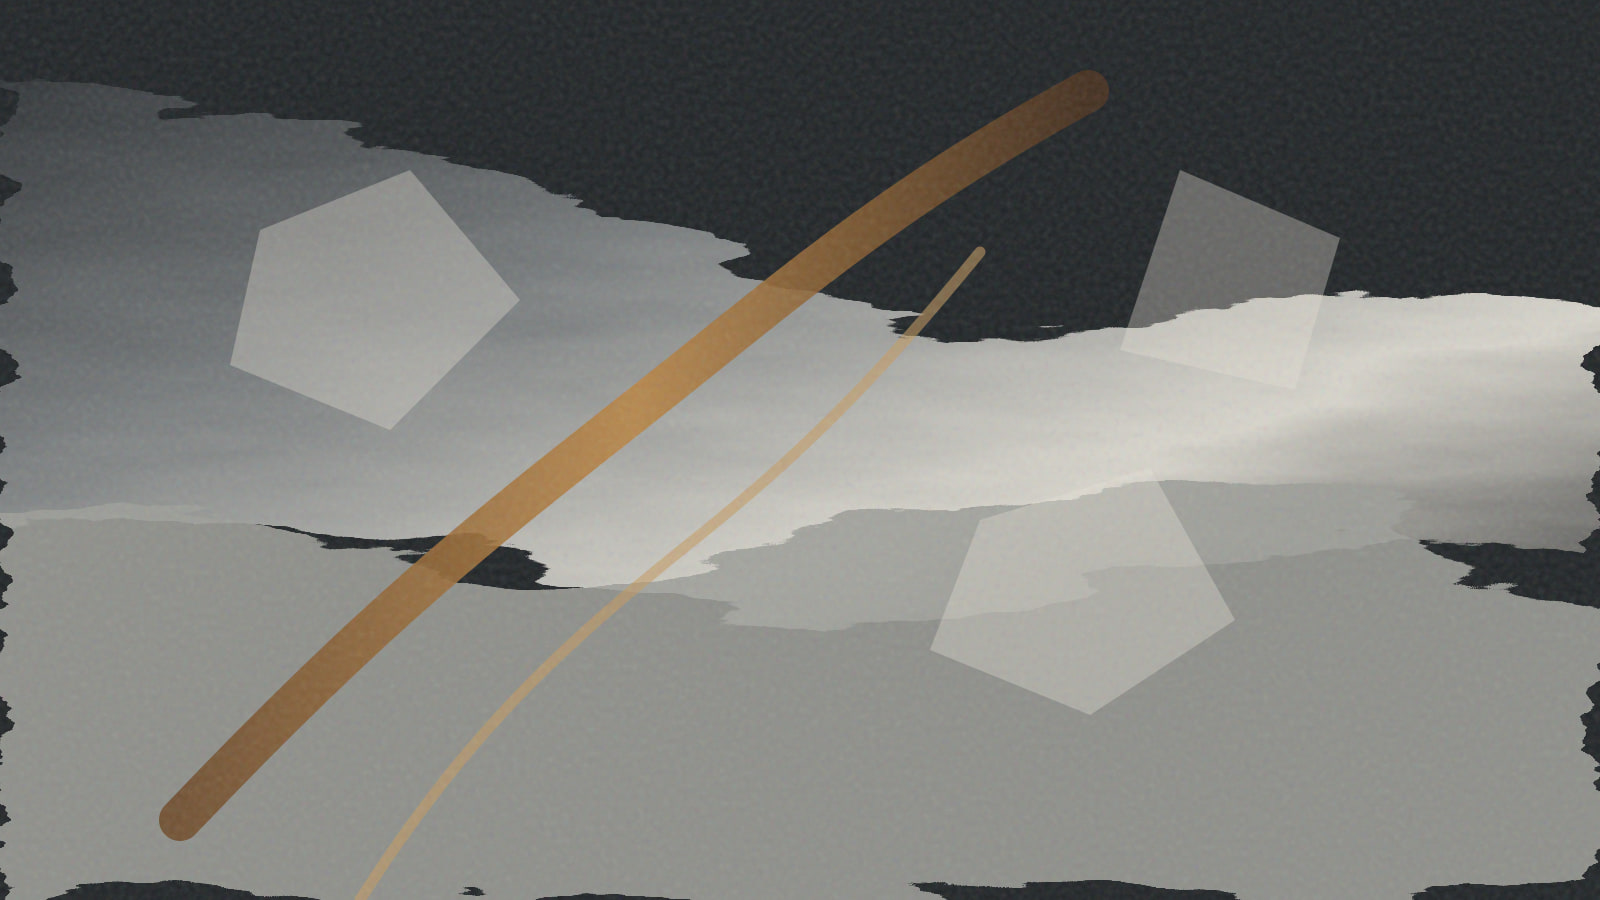
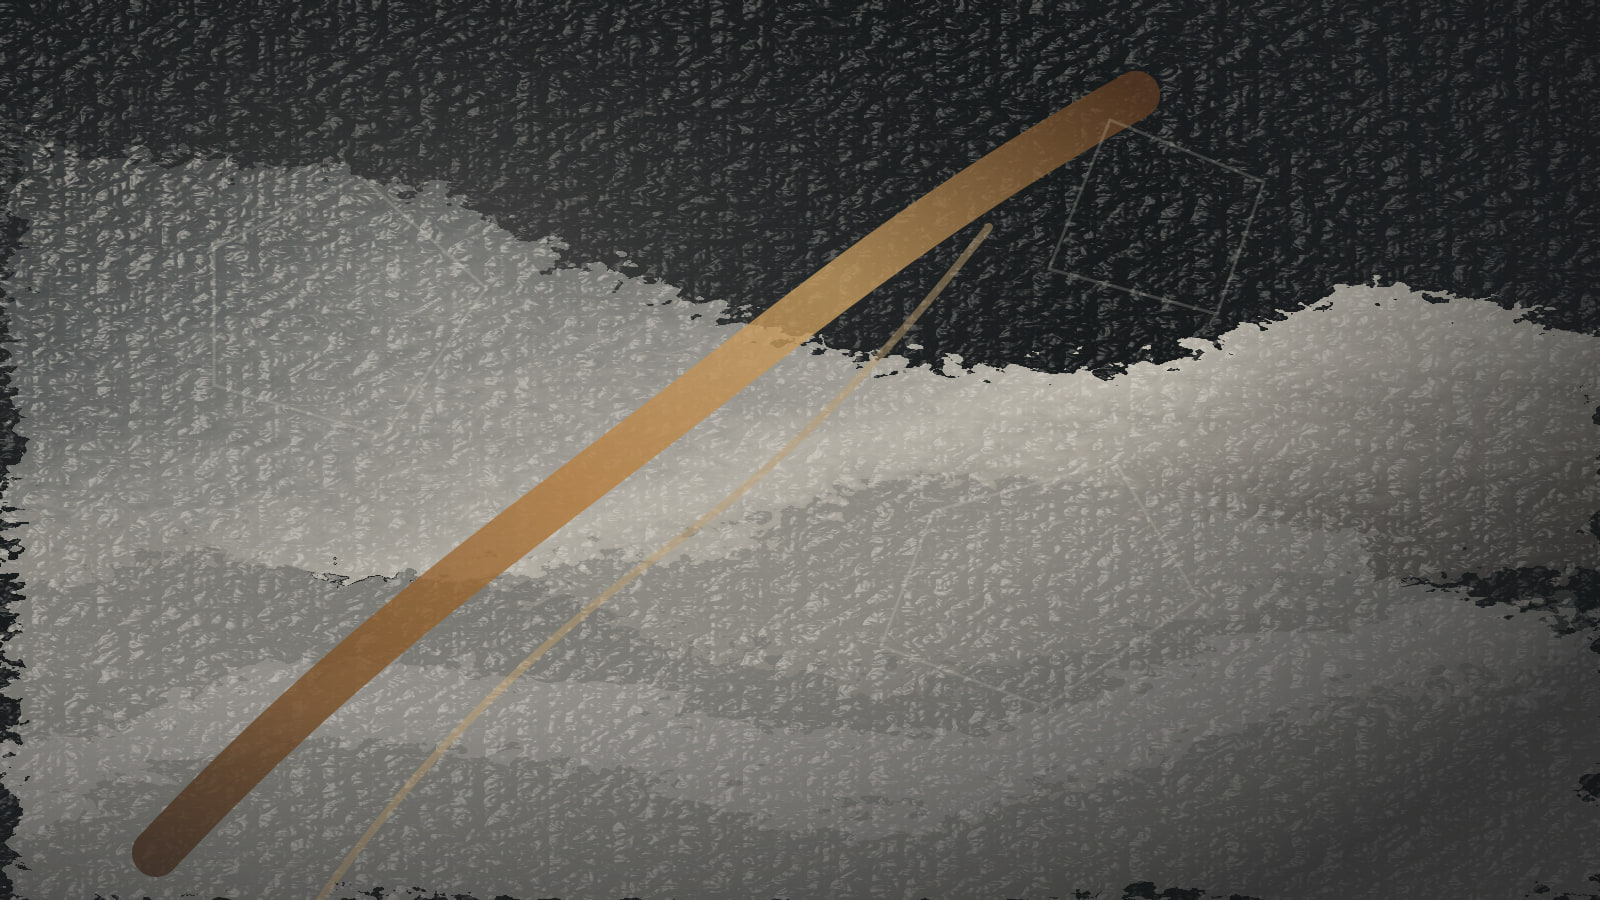
gate5(editorial-v1): gen-2 interpretive rasters -> OMNI APPROVED
ChatGPT upgraded the 3 interpretive SVG sources (1e9b43b/96125b3/b13ec06,
relay d2b50f3): multi-scale blended turbulence + higher displacement +
specular passes. Re-rasterized via scripts/images/rasterize-editorial-v1.mjs
to valid 1600x900 JPEG (603/401/275 KB); fresh SHA-256 in the checkpoint.

Gate 4 re-run PASS: heroes wired to gen-2, noindex on all routes, no
overflow, 0 placeholders, chrome hidden, tsc/lint/build clean. Gen-2 texture
verified on disk, via the Next optimiser, and rendered at desktop (needed a
.next/cache/images clear first).

OMNI Gate 5 re-submitted -> APPROVED_WITH_NON_BLOCKING_REFINEMENTS
(confidence 0.844, 0 blockers). ev1-01 cleared; remaining items are
cosmetic polish-later (ev1-02 crop art direction, ev1-04 cutover metadata,
optional ev1-01 amouage-stroke polish).

All 5 gates green. PRODUCTION: HOLD stays - lifting it / PR to main / deploy
is Brey's call. No merge, no deploy.

diff --git a/art-direction/EDITORIAL_V1_IMPLEMENTATION_CHECKPOINT.md b/art-direction/EDITORIAL_V1_IMPLEMENTATION_CHECKPOINT.md
@@ -400,3 +400,49 @@ commercial = clear.
 `GATE_5: BLOCKED` on ev1-01. `PRODUCTION: HOLD` stays. No merge, no deploy.
 Next actor: **ChatGPT/Design** — deliver higher-craft interpretive assets for
 the 3 hero/lead slots, then Code re-wires, re-runs Gate 4, and re-submits Gate 5.
+
+---
+
+## Gate 5 — re-submitted: APPROVED_WITH_NON_BLOCKING_REFINEMENTS (2026-08-31)
+
+ChatGPT's remediation (`1e9b43b` / `96125b3` / `b13ec06` + relay `d2b50f3`)
+replaced the 3 interpretive SVG sources with higher-craft versions (multi-scale
+blended turbulence, higher displacement, specular-lighting passes). Code
+re-rasterised via `scripts/images/rasterize-editorial-v1.mjs`:
+
+| file | gen-2 size | gen-2 sha256 |
+|---|---|---|
[3 lines of base64/hex data omitted]
+
+Note for local dev: the Next image optimiser caches by URL, so after replacing a
+file at the same path you must `rm -rf apps/web/.next/cache/images` and restart
+the dev server, or the old raster keeps serving.
+
+### OMNI Gate 5 result
+`omni_release_gate` → **APPROVED_WITH_NON_BLOCKING_REFINEMENTS**, overall
+confidence 0.844. **0 blockers, 0 must-fix-now, 0 should-fix-soon.**
+All 6 findings are `cosmetic` / polish-later:
+- **ev1-01** — cleared. Heroes now read as deliberate material studies
+  (granular amber / folded burgundy / mineral strata). Residual: the amouage
+  brass strokes still read graphic against the textured ground — optional
+  future polish.
+- **ev1-02** — documentary crop still plumbed not art-directed (60/40 for the
+  botanical pivot suggested).
+- **ev1-03** — RESOLVED (`:focus-visible` outline added).
+- **ev1-04** — indexation: flip `noindex` + real per-route metadata at cutover.
+- **ev1-05 / ev1-06** — positive (documentary provenance; editorial composition).
+
+### Gate 4 re-run (gen-2) — PASS
+All 3 story heroes wired to their gen-2 file; `noindex` on all routes; no
+horizontal overflow; 0 placeholders; global chrome hidden; 1 nav; tsc/lint/build
+clean. Gen-2 texture confirmed rendering at desktop (Ámbar + Sultán heroes)
+after clearing the image cache.
+
+### Status
+`GATE_5: PASS (approved with non-blocking refinements)`. All 5 Next-gates are
+now green. **`PRODUCTION: HOLD` still in force** — lifting the hold, opening a
+PR to `main`, and deploying are Brey's decision, not an OMNI output. The
+polish-later items (ev1-02 crop, ev1-04 cutover metadata, optional ev1-01
+amouage-stroke polish) can be handled in the cutover PR or a follow-up.
